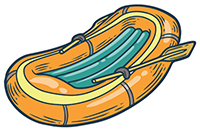
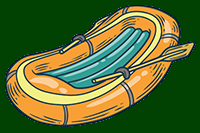
S04 várias atualizações prévia tarefa 1

diff --git a/wwr/estilos/rafting.css b/wwr/estilos/rafting.css
@@ -26,26 +26,60 @@ body {
 
 header, main, footer {
     width: 840px;
-    margin: 0 auto;
+    margin: 10px auto 10px auto;
+}
+
+header {
+    display: grid;
+    grid-template-columns: auto 1fr;
+    align-items: center;
+    background-color: rgb(1, 65, 1);
+    font-weight: bold
+}
+
+nav, p, section, article {
+    margin: 16px;
+    padding: 8px;
+    text-align: center;
 }
 
 footer {
     background-color: var(--cor-destaque);
+    display: flex;
+    justify-content: space-around;
+    align-items: center;
+    margin: 0px;
+    padding: 0px;
+}
+
+footer nav {
+    margin: 0px;
+    padding: 0px;
 }
 
 .redes-sociais, a, nav a, footer a {
     text-decoration: none;
 }
 
+nav {
+    display: flex;
+    justify-content: center;
+    gap: 20px;
+}
+
+nav a{
+    list-style: none;
+    color: #f5f236;
+}
+
+nav a:hover {
+    color: #ffffff;
+}
+
 h1, h2 {
     font-family: var(--fonte-titulo);
     color: var(--cor-primaria);
     text-align: center;
-}
-
-nav, p, section, article {
-    margin: 16px;
-    padding: 8px;
 }
 
 h1 {
@@ -85,6 +119,11 @@ h1 {
     text-decoration: none;
 }
 
+.redes-sociais img {
+    width: 36px;
+    height: auto;
+}
+
 .hero {
     position: relative;
 }
@@ -93,4 +132,41 @@ h1 {
     display: block;
     width: 100%;
     height: auto;
+}
+
+.historia {
+    background-color: rgba(0, 0, 0, 0.2);
+    margin-left: 0;
+    margin-right: 0;
+}
+
+.historia div {
+    display: grid;
+    grid-template-columns: 1fr 200px 1fr;
+    align-items: center;
+}
+
+.historia img {
+    display: block;
+    width: 200px;
+}
+
+.aventura {
+    margin-left: 0;
+    margin-right: 0;
+    /* padding: 0px; */
+}
+
+.aventura div {
+    display: grid;
+    grid-template-columns: repeat(5, 1fr);
+    gap: 20px;
+    margin-top: 10px;
+    padding: 0px;
+}
+
+.aventura img {
+    width: 100%;
+    height: 10rem;
+    object-fit: cover;
 }

diff --git a/wwr/sobre.html b/wwr/sobre.html
@@ -12,14 +12,18 @@
 
 <body>
   <header>
+    <img src="imagens/rafting-boat.png" alt="Bote de Rafting">
     <nav>
-      <img src="imagens/rafting-boat.png" alt="Bote de Rafting">
-      <ul>
+      <!-- <ul>
         <li><a href="index.html">Página Inicial</a></li>
         <li><a href="sobre.html">Sobre Nós</a></li>
         <li><a href="passeios.html">Passeios</a></li>
         <li><a href="contato.html">Fale Conosco</a></li>
-      </ul>
+      </ul> -->
+        <a href="index.html">Página Inicial</a>
+        <a href="sobre.html">Sobre Nós</a>
+        <a href="passeios.html">Passeios</a>
+        <a href="contato.html">Fale Conosco</a>
     </nav>
   </header>
 
@@ -33,15 +37,41 @@
       </article>
     </div>
 
-    <section>
-      <h2>History</h2>
-      <!-- <h2>História</h2> -->
-      <p>Lorem ipsum dolor sit amet consectetur adipisicing elit. Natus quibusdam nobis officiis voluptas expedita explicabo asperiores! Sunt aperiam quasi eos eligendi sed voluptates vitae fuga error doloremque perferendis, velit ea libero cupiditate provident quidem perspiciatis quibusdam odio, facilis asperiores ipsum.</p>
+    <section class="historia">
+      <!-- <h2>History</h2> -->
+      <h2>História</h2>
+      <div>
+        <p>Lorem ipsum dolor sit amet consectetur adipisicing elit. Animi exercitationem nesciunt dignissimos minus est dicta neque nobis atque quam sit cumque in, porro eaque debitis!</p>
+        <img src="imagens/sobre-corredeira-historia.jpg" alt="Grupo de pessoas fazendo rafting em corredeira">
+        <p>Lorem ipsum dolor sit amet consectetur adipisicing elit. Natus maiores distinctio laboriosam aperiam quam? Neque optio odio asperiores velit suscipit officiis ex sed architecto maxime!</p>
+      </div>
     </section>
 
-    <section>
-      <h2>Adventure Awaits You!</h2>
-      <!-- <h2>A aventura está te esperando!</h2> -->
+    <section class="aventura">
+      <!-- <h2>Adventure Awaits You!</h2> -->
+      <h2>A aventura está te esperando!</h2>
+      <div>
+      <figure>
+        <img src="imagens/sobre-rio-cetina.jpg" alt="Rio Cetina">
+        <figcaption>Rio Cetina</figcaption>
+      </figure>
+      <figure>
+       <img src="imagens/sobre-rio-cisadane.jpg" alt="Rio Cisadane">
+        <figcaption>Rio Cisadane</figcaption>
+      </figure>
+      <figure>
+        <img src="imagens/sobre-rio-mae-taeng.jpg" alt="Rio Mae Taeng">
+        <figcaption>Rio Mae Taeng</figcaption>
+      </figure>
+      <figure>
+        <img src="imagens/sobre-rio-salmon.jpg" alt="Rio Salmon">
+        <figcaption>Rio Salmon</figcaption>
+      </figure>
+      <figure>
+        <img src="imagens/sobre-rio-thompson.jpg" alt="Rio Tompson">
+        <figcaption>Rio Tompson</figcaption>
+      </figure>
+      </div>
     </section>
 
     <footer>